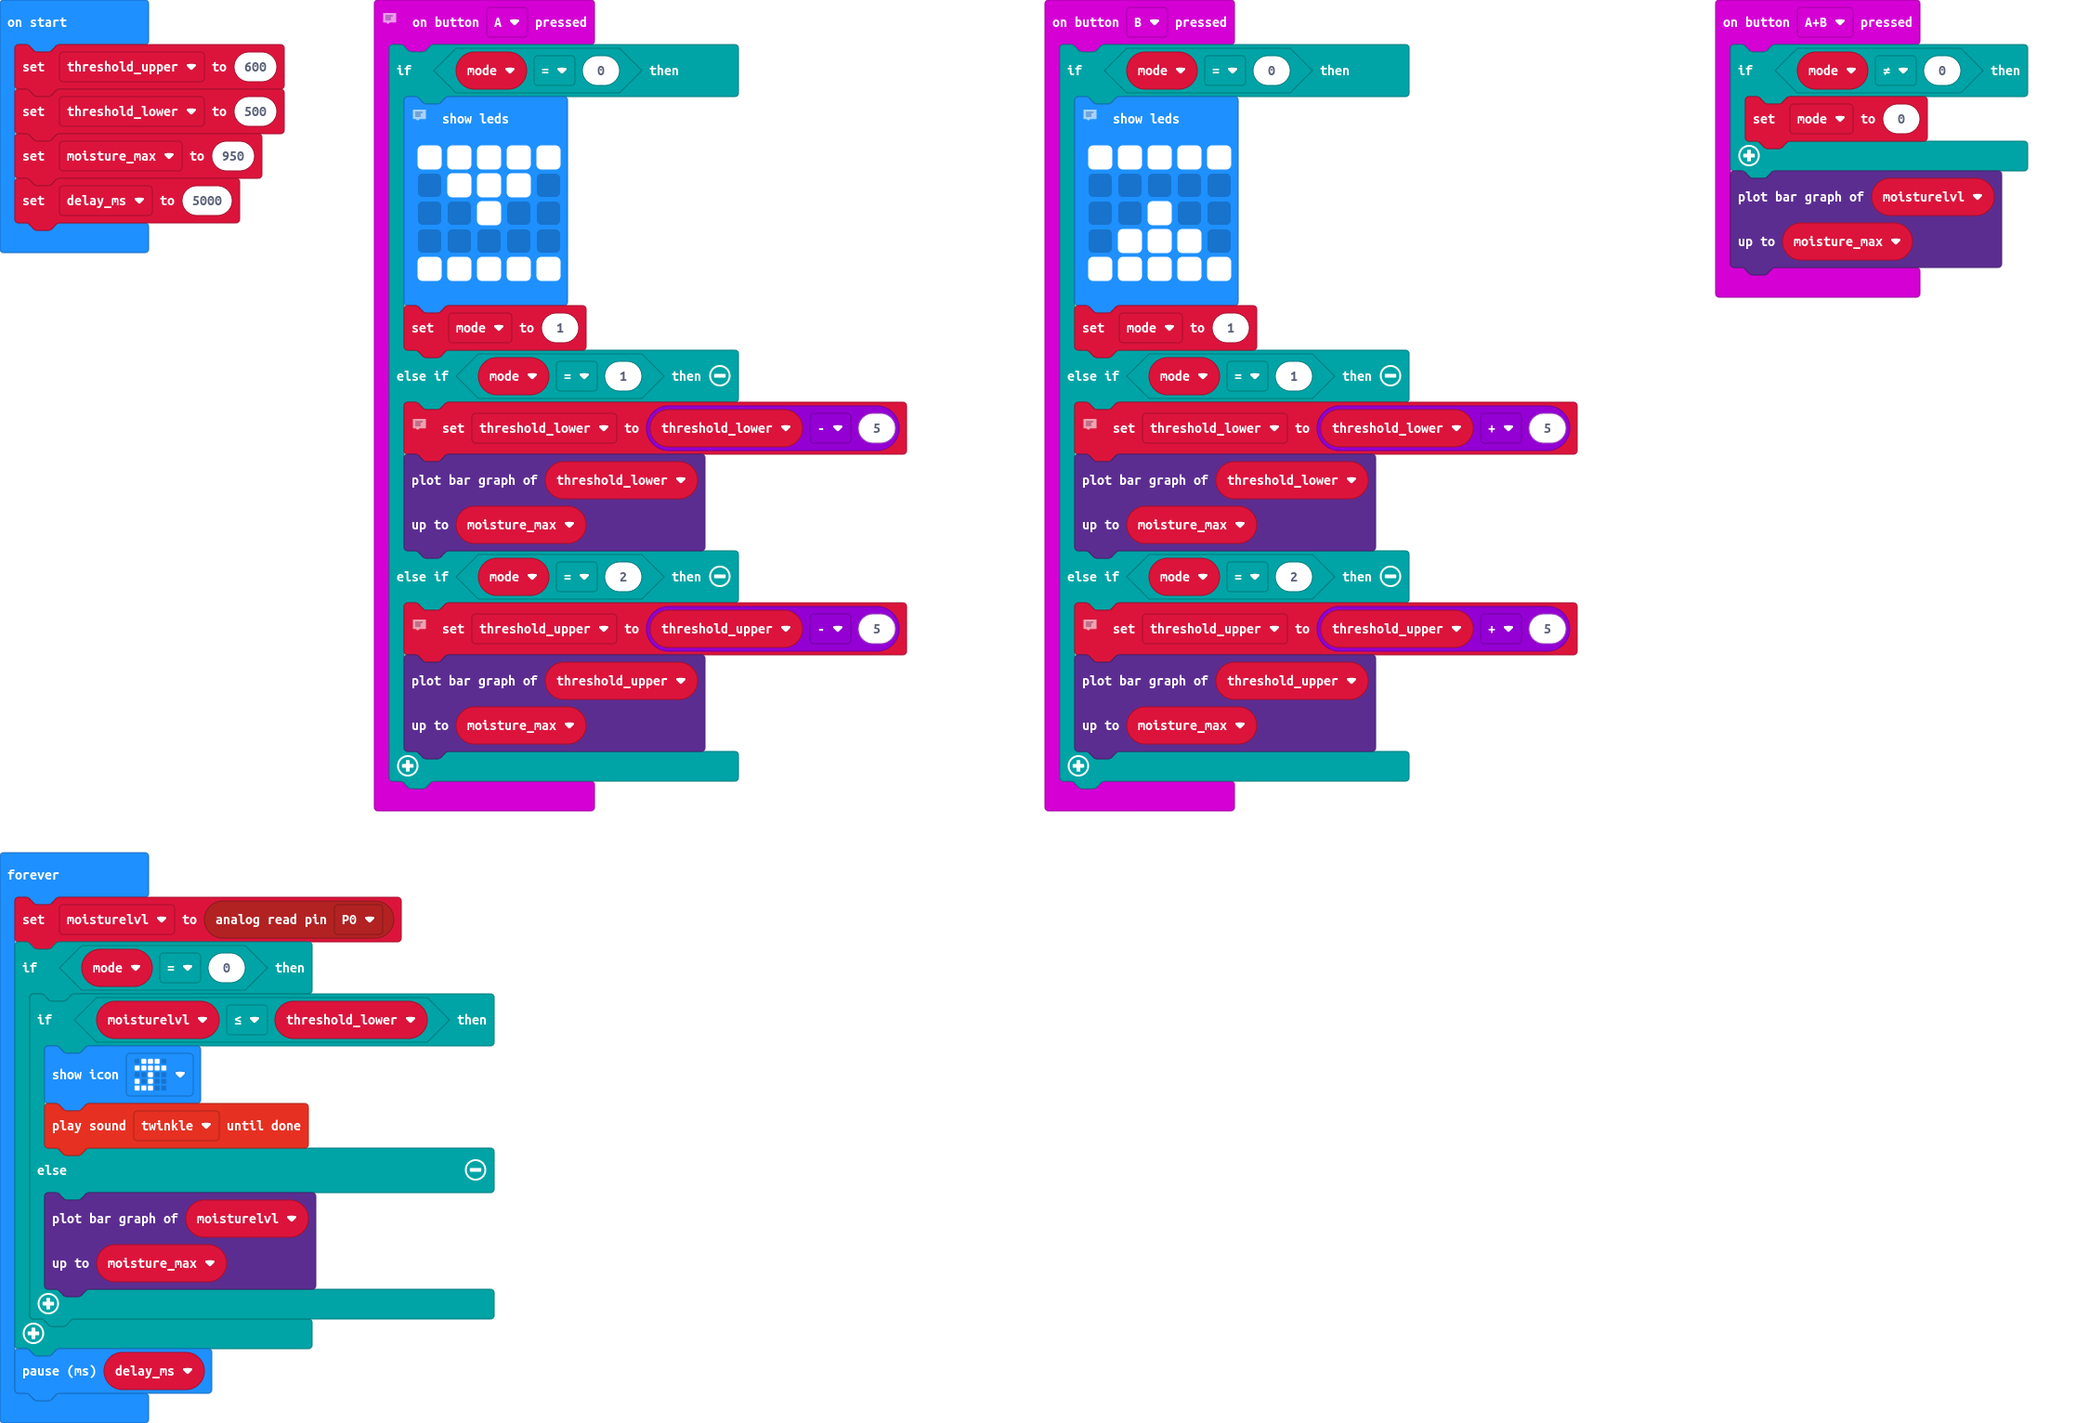
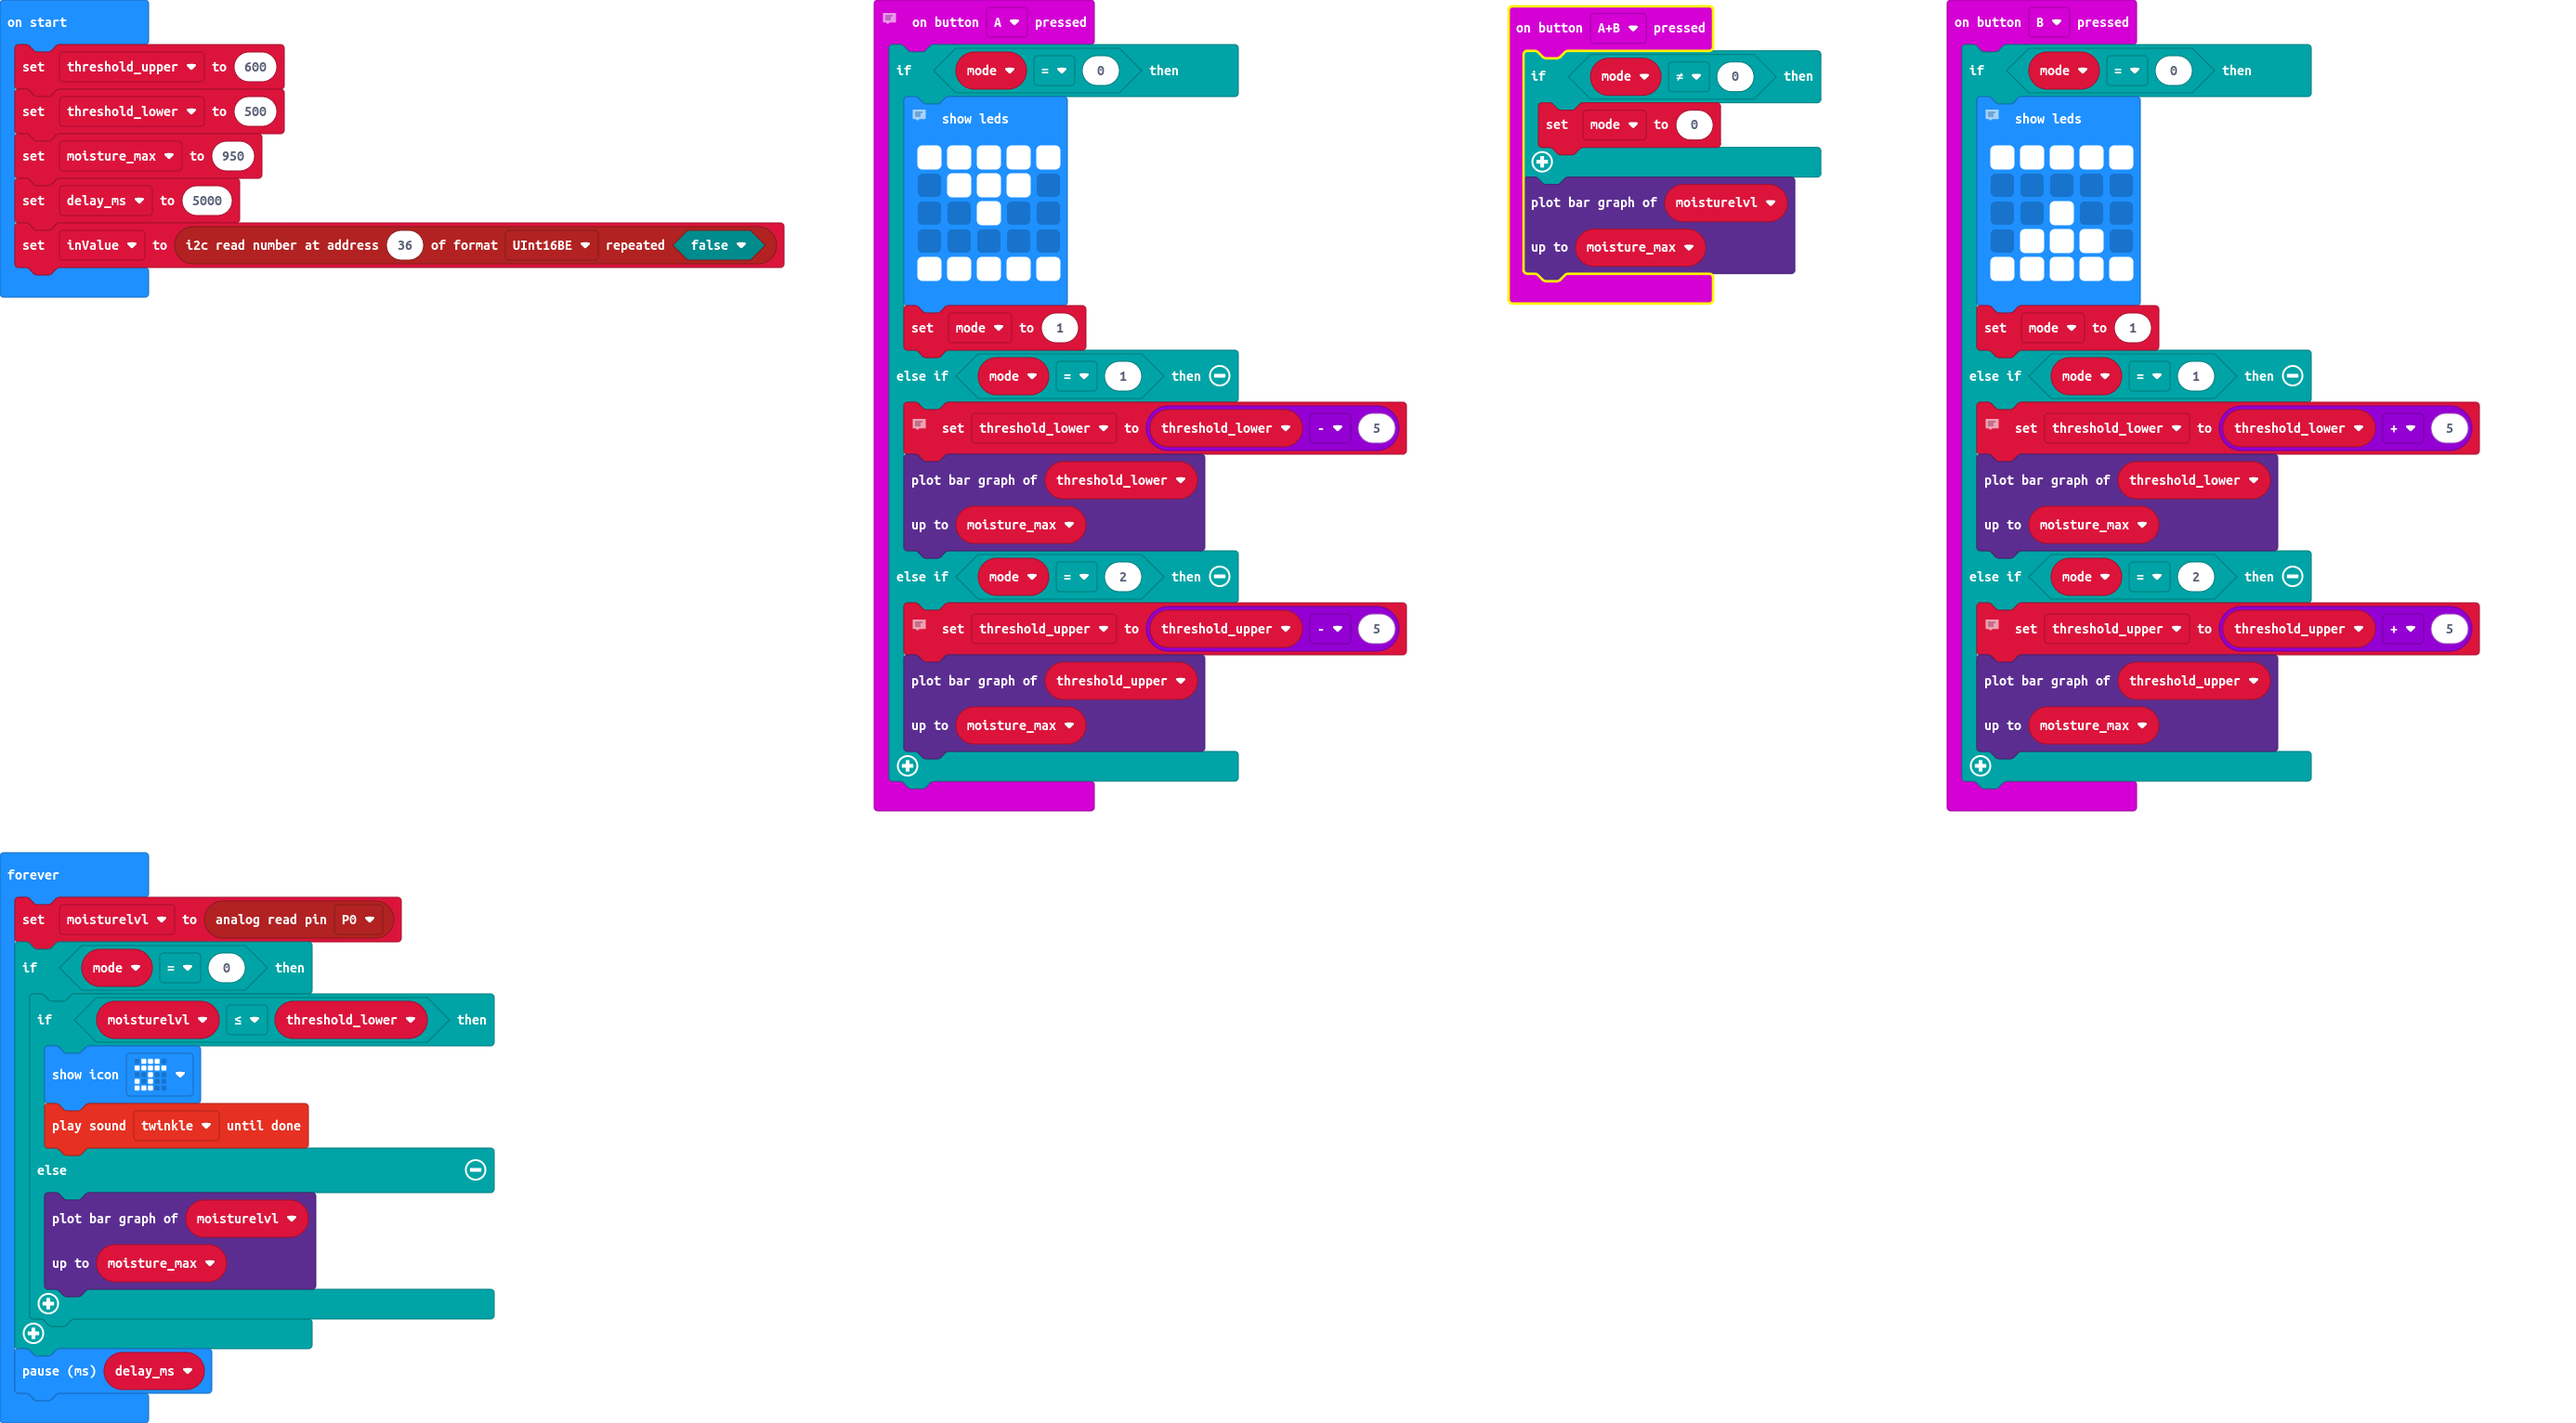
Better graphing by using only the relevant/configured range

diff --git a/main.ts b/main.ts
@@ -57,23 +57,27 @@ input.onButtonPressed(Button.B, function on_button_pressed_b() {
     
 })
 let moisturelvl = 0
+let moisture_range = 0
+let moisture_graph = 0
 let mode = 0
 let moisture_max = 0
-let threshold_lower = 0
-let threshold_upper = 0
-threshold_upper = 600
-threshold_lower = 500
+let threshold_upper = 600
+let threshold_lower = 500
 moisture_max = 950
-let delay_ms = 5000
+let delay_ms = 1000
+// inValue = pins.i2c_read_number(36, NumberFormat.UINT16_BE, False)
 basic.forever(function on_forever() {
     
+    
     moisturelvl = pins.analogReadPin(AnalogPin.P0)
+    moisture_range = threshold_upper - threshold_lower
+    let moisture_graph = (moisturelvl - threshold_lower) / moisture_range * moisture_range
     if (mode == 0) {
         if (moisturelvl <= threshold_lower) {
             basic.showIcon(IconNames.Umbrella)
             soundExpression.twinkle.playUntilDone()
         } else {
-            led.plotBarGraph(moisturelvl, moisture_max)
+            led.plotBarGraph(moisture_graph, moisture_range)
         }
         
     }

diff --git a/main.py b/main.py
@@ -55,23 +55,27 @@ def on_button_pressed_b():
 input.on_button_pressed(Button.B, on_button_pressed_b)
 
 moisturelvl = 0
+moisture_range = 0
+moisture_graph = 0
 mode = 0
 moisture_max = 0
-threshold_lower = 0
-threshold_upper = 0
 threshold_upper = 600
 threshold_lower = 500
 moisture_max = 950
-delay_ms = 5000
+delay_ms = 1000
+#inValue = pins.i2c_read_number(36, NumberFormat.UINT16_BE, False)
 
 def on_forever():
     global moisturelvl
+    global moisture_range
     moisturelvl = pins.analog_read_pin(AnalogPin.P0)
+    moisture_range = threshold_upper-threshold_lower
+    moisture_graph = ((moisturelvl - threshold_lower) / moisture_range) * moisture_range
     if mode == 0:
         if moisturelvl <= threshold_lower:
             basic.show_icon(IconNames.UMBRELLA)
             soundExpression.twinkle.play_until_done()
         else:
-            led.plot_bar_graph(moisturelvl, moisture_max)
+            led.plot_bar_graph(moisture_graph, moisture_range)
     basic.pause(delay_ms)
 basic.forever(on_forever)
